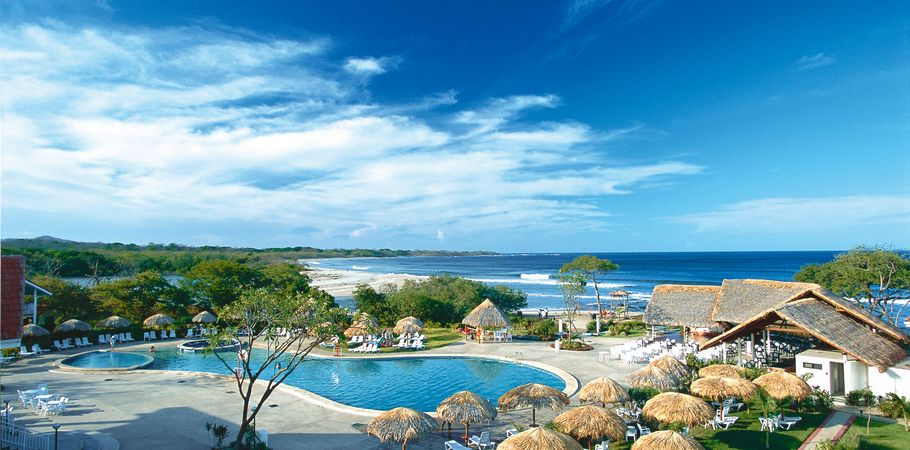
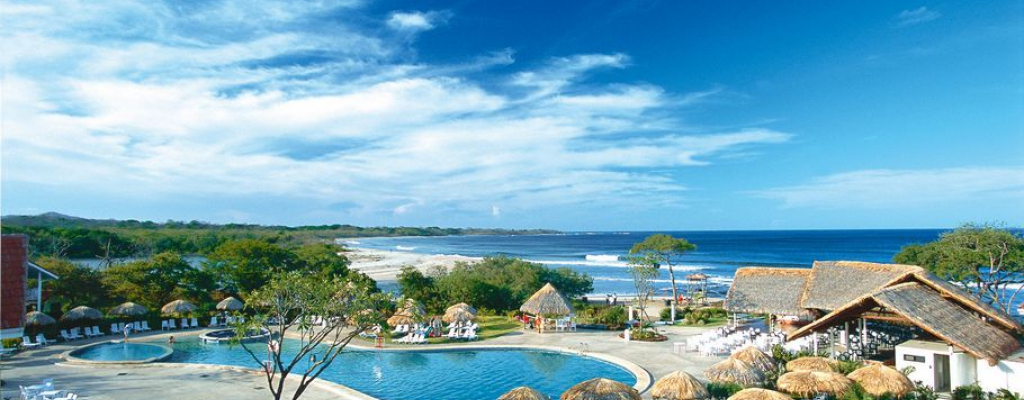
Added - Image resize functionality - Code refactored

diff --git a/css/slide_show.css b/css/slide_show.css
@@ -1,8 +1,6 @@
 #slideshow {
     position:relative;
-    height:350px;
-    margin-left: 20%;
-    margin-right: 20%;
+    height:450px;
 }
 
 #slideshow div {
@@ -11,7 +9,7 @@
     left:0;
     z-index:8;
     opacity:0.0;
-    height: 350px;
+    height: 450px;
     background-color: White;
 }
 
@@ -25,7 +23,7 @@
 }
 
 #slideshow div img {
-    height: 300px;
+    height: 400px;
     max-width: 100%;
     display: block;
     border: 0;

diff --git a/css/form.css b/css/form.css
@@ -61,6 +61,15 @@
     outline: 0;
 }
 
+.general_form .btn_medium {
+    border-radius: 3px;
+    border-width: 1px;
+    width: 110px;
+    height: 40px;
+    vertical-align: middle; /* align the text vertically centered */
+    outline: 0;
+}
+
 .general_form .btn_large {
     border-radius: 3px;
     border-width: 1px;
@@ -147,6 +156,3 @@ label.btn_pictures {
     float: left;
 }
 
-#btn_delete {
-    width: 100px;
-}

diff --git a/css/main.css b/css/main.css
@@ -306,7 +306,7 @@ nav ul li {
 
 
 .main_col_box:hover{
-    box-shadow: -15px 5px 30px rgb(199, 199, 199);
+    /*box-shadow: -15px 5px 30px rgb(199, 199, 199);*/
 }
 
 .multi_box {

diff --git a/utils/resize-class.php b/utils/resize-class.php
@@ -1,0 +1,208 @@
+<?php
+    include 'files.php';
+
+    Class resize
+    {
+        private $image;
+        private $width;
+        private $height;
+        private $imageResized;
+
+        public function __construct($fileName) {
+            $this->image = $this->openImage($fileName);
+
+            $this->width  = imagesx($this->image);
+            $this->height = imagesy($this->image);
+        }
+
+        private function openImage($file) {
+            $extension = getFileExtension($file);
+
+            switch($extension)
+            {
+                case '.jpg':
+                case '.jpeg':
+                    $image = @imagecreatefromjpeg($file);
+                    break;
+                case '.gif':
+                    $image = @imagecreatefromgif($file);
+                    break;
+                case '.png':
+                    $image = @imagecreatefrompng($file);
+                    break;
+                default:
+                    $image = false;
+                    break;
+            }
+            return $image;
+        }
+
+        public function resizeImage($newWidth, $newHeight, $option="auto") {
+
+            $optionArray = $this->getDimensions($newWidth, $newHeight, strtolower($option));
+
+            $optimalWidth  = $optionArray['optimalWidth'];
+            $optimalHeight = $optionArray['optimalHeight'];
+
+            if($optimalWidth !== $this->width && $optimalHeight !== $this->height ) {
+                var_dump($optionArray);
+                $this->imageResized = imagecreatetruecolor($optimalWidth, $optimalHeight);
+                imagecopyresampled($this->imageResized, $this->image, 0, 0, 0, 0, $optimalWidth, $optimalHeight, $this->width, $this->height);
+
+                if ($option == 'crop') {
+                    $this->crop($optimalWidth, $optimalHeight, $newWidth, $newHeight);
+                }
+            } else {
+                $this->imageResized = null;
+            }
+        }
+
+        private function getDimensions($newWidth, $newHeight, $option) {
+
+            switch ($option)
+            {
+                case 'exact':
+                    $optimalWidth = $newWidth;
+                    $optimalHeight= $newHeight;
+                    break;
+                case 'portrait':
+                    $optimalWidth = $this->getSizeByFixedHeight($newHeight);
+                    $optimalHeight= $newHeight;
+                    break;
+                case 'landscape':
+                    $optimalWidth = $newWidth;
+                    $optimalHeight= $this->getSizeByFixedWidth($newWidth);
+                    break;
+                case 'auto':
+                    $optionArray = $this->getSizeByAuto($newWidth, $newHeight);
+                    $optimalWidth = $optionArray['optimalWidth'];
+                    $optimalHeight = $optionArray['optimalHeight'];
+                    break;
+                case 'crop':
+                    $optionArray = $this->getOptimalCrop($newWidth, $newHeight);
+                    $optimalWidth = $optionArray['optimalWidth'];
+                    $optimalHeight = $optionArray['optimalHeight'];
+                    break;
+            }
+
+            return array('optimalWidth' => $optimalWidth, 'optimalHeight' => $optimalHeight);
+        }
+
+        private function getSizeByFixedHeight($newHeight) {
+            $ratio = $this->width / $this->height;
+            $newWidth = $newHeight * $ratio;
+            return $newWidth;
+        }
+
+        private function getSizeByFixedWidth($newWidth) {
+            $ratio = $this->height / $this->width;
+            $newHeight = $newWidth * $ratio;
+            return $newHeight;
+        }
+
+        private function getSizeByAuto($newWidth, $newHeight) {
+
+            // Image to be resized is wider (landscape)
+            if ($this->height < $this->width) {
+                $optimalWidth = $newWidth;
+                $optimalHeight= $this->getSizeByFixedWidth($newWidth);
+            }
+
+            // Image to be resized is taller (portrait)
+            elseif ($this->height > $this->width) {
+                $optimalWidth = $this->getSizeByFixedHeight($newHeight);
+                $optimalHeight= $newHeight;
+            }
+
+            // Image to be resizerd is a square
+            else {
+                if ($newHeight < $newWidth) {
+                    $optimalWidth = $newWidth;
+                    $optimalHeight= $this->getSizeByFixedWidth($newWidth);
+                } else if ($newHeight > $newWidth) {
+                    $optimalWidth = $this->getSizeByFixedHeight($newHeight);
+                    $optimalHeight= $newHeight;
+                } else {
+                    $optimalWidth = $newWidth;
+                    $optimalHeight= $newHeight;
+                }
+            }
+
+            return array('optimalWidth' => $optimalWidth, 'optimalHeight' => $optimalHeight);
+        }
+
+        private function getOptimalCrop($newWidth, $newHeight) {
+
+            $heightRatio = $this->height / $newHeight;
+            $widthRatio  = $this->width /  $newWidth;
+
+            if ($heightRatio < $widthRatio) {
+                $optimalRatio = $heightRatio;
+            } else {
+                $optimalRatio = $widthRatio;
+            }
+
+            $optimalHeight = $this->height / $optimalRatio;
+            $optimalWidth  = $this->width  / $optimalRatio;
+
+            return array('optimalWidth' => $optimalWidth, 'optimalHeight' => $optimalHeight);
+        }
+
+        private function crop($optimalWidth, $optimalHeight, $newWidth, $newHeight) {
+            // Find center
+            $cropStartX = ( $optimalWidth / 2) - ( $newWidth /2 );
+            $cropStartY = ( $optimalHeight/ 2) - ( $newHeight/2 );
+
+            $crop = $this->imageResized;
+            //imagedestroy($this->imageResized);
+
+            // Now crop from center to exact requested size
+            $this->imageResized = imagecreatetruecolor($newWidth , $newHeight);
+            imagecopyresampled($this->imageResized, $crop , 0, 0, $cropStartX, $cropStartY, $newWidth, $newHeight , $newWidth, $newHeight);
+        }
+
+        public function saveImage($savePath, $imageQuality="100") {
+
+            if($this->imageResized) {
+
+                $extension = getFileExtension($savePath);
+
+                switch($extension)
+                {
+                    case '.jpg':
+                    case '.jpeg':
+
+                        if (imagetypes() & IMG_JPG) {
+                            imagejpeg($this->imageResized, $savePath, $imageQuality);
+                        }
+                        break;
+
+                    case '.gif':
+
+                        if (imagetypes() & IMG_GIF) {
+                            imagegif($this->imageResized, $savePath);
+                        }
+                        break;
+
+                    case '.png':
+
+                        // Scale quality from 0-100 to 0-9
+                        $scaleQuality = round(($imageQuality/100) * 9);
+
+                        // Invert quality setting as 0 is best, not 9
+                        $invertScaleQuality = 9 - $scaleQuality;
+
+                        if (imagetypes() & IMG_PNG) {
+                            imagepng($this->imageResized, $savePath, $invertScaleQuality);
+                        }
+                        break;
+
+                    default:
+                        // No extension - don't save.
+                        break;
+                }
+
+                imagedestroy($this->imageResized);
+            }
+        }
+    }

diff --git a/templates/slide_show.php b/templates/slide_show.php
@@ -3,16 +3,22 @@
 
     <div id="slideshow">
         <div class="active">
-            <a href="#"><img  src="img/slide_show/map/map-costa-rica.gif"></a>
+            <a href="#"><img  src="img/slide_show/map/map-costa-rica.png"></a>
             <p class="caption text_center">Map Of Costa Rica</p>
         </div>
 
         <?php
+            include 'utils/resize-class.php';
             $images = glob("img/slide_show/*.*");
 
             foreach($images as $image) {
-                $splitFilename = explode("/",$image);
-                $caption = explode(".",end($splitFilename));
+                $splitPath = explode("/",$image);
+
+                $resizeObj = new resize($image);
+                $resizeObj -> resizeImage(1024, 400, 'crop');
+                $resizeObj -> saveImage($image, 100);
+
+                $caption = explode(".",end($splitPath));
                 $caption = $caption[0];
 
                 echo '<div>'.

diff --git a/index.php b/index.php
@@ -25,9 +25,9 @@
                 the Republic of Costa Rica (Spanish: Costa Rica or República de Costa Rica,
                 pronounced: [reˈpuβlika ðe ˈkosta ˈrika]), is a country in Central America, bordered
                 by Nicaragua to the north, Panama to the southeast, the Pacific Ocean to the west,
-                the Caribbean Sea to the east, and Ecuador to the south of Cocos Island.<br><br>
+                the Caribbean Sea to the east, and Ecuador to the south of Cocos Island.
+                <br><br>
             </p>
-
 
             <div class="multi_box"> 
                 <div class="main_box main_col_box">

diff --git a/templates/unsubscribe_form.php b/templates/unsubscribe_form.php
@@ -12,7 +12,7 @@
 
     </fieldset>
     <div id="formbuttons">
-        <button class="btn_default" id="btn_delete" type="submit"><span class="btn_icon icon_delete"></span> Unsubscribe</button>
+        <button class="btn_medium" type="submit"><span class="btn_icon icon_delete"></span> Unsubscribe</button>
     </div>
 
 </form>
